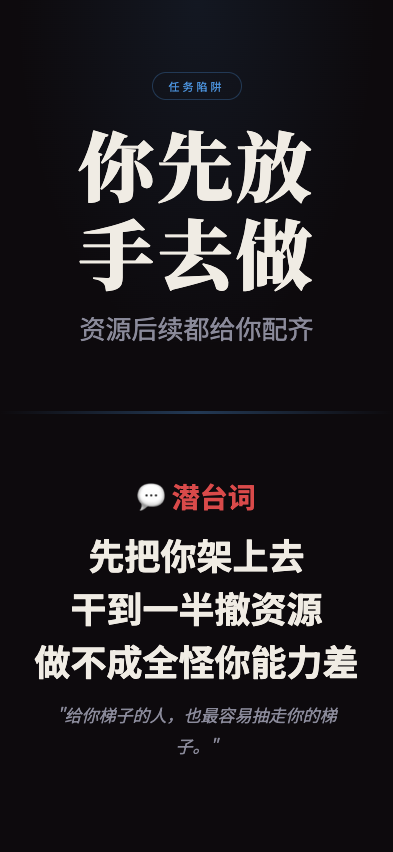
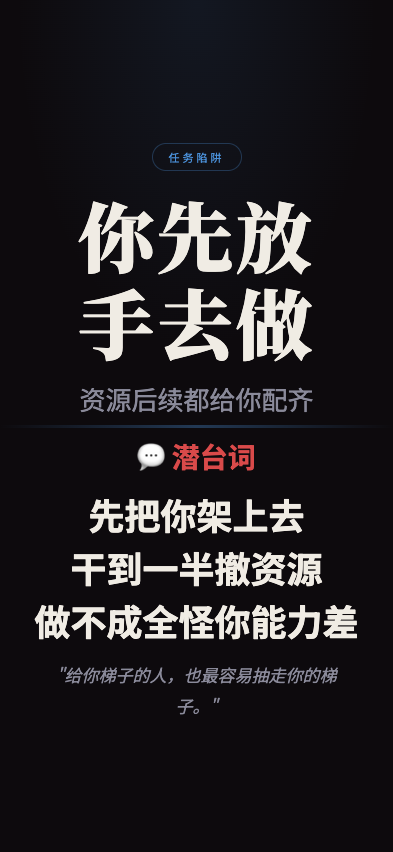
feat: 职场生存法则 screenshot - nixianshousfangdaizuo

Changed region(s): [[0.0916, 0.4577, 0.916, 0.885], [0.1832, 0.1526, 0.7939, 0.4272], [0.4275, 0.0915, 0.5802, 0.1221]]

diff --git a/wuliao-tools/tools/biz-speak/scenes/nixianshousfangdaizuo.html b/wuliao-tools/tools/biz-speak/scenes/nixianshousfangdaizuo.html
@@ -27,12 +27,12 @@
     background:radial-gradient(ellipse at 50% 0%, rgba(74,144,217,0.1) 0%, transparent 65%);
     pointer-events:none; z-index:0;
   }
-  .top { flex:1; display:flex; flex-direction:column; align-items:center; justify-content:center; padding:16px 28px 8px; position:relative; z-index:1; }
+  .top { flex:1; display:flex; flex-direction:column; align-items:center; justify-content:flex-end; padding:4px 28px 8px; position:relative; z-index:1; }
   .tag { font-size:11px; letter-spacing:3px; color:var(--gold); border:1px solid rgba(74,144,217,0.3); padding:5px 16px; border-radius:50px; margin-bottom:20px; }
   .main-title { font-family:'Noto Serif SC'; font-size:76px; font-weight:900; text-align:center; line-height:1.15; letter-spacing:3px; max-width:92%; overflow-wrap:break-word; }
   .sub-title { font-size:26px; color:var(--text-dim); text-align:center; margin-top:14px; }
   .divider { width:100%; height:3px; background:linear-gradient(90deg,transparent,var(--gold),transparent); opacity:0.35; flex-shrink:0; position:relative; z-index:1; }
-  .bottom { flex:1; display:flex; flex-direction:column; align-items:center; justify-content:center; padding:12px 28px 40px; position:relative; z-index:1; }
+  .bottom { flex:1; display:flex; flex-direction:column; align-items:center; justify-content:flex-start; padding:8px 28px 4px; position:relative; z-index:1; }
   .truth-label { font-size:28px; font-weight:700; color:var(--red); display:flex; align-items:center; gap:10px; margin-bottom:16px; }
   .truth-lines { display:flex; flex-direction:column; align-items:center; gap:10px; }
   .truth-line { font-size:36px; font-weight:700; color:var(--text); text-align:center; line-height:1.2; }
